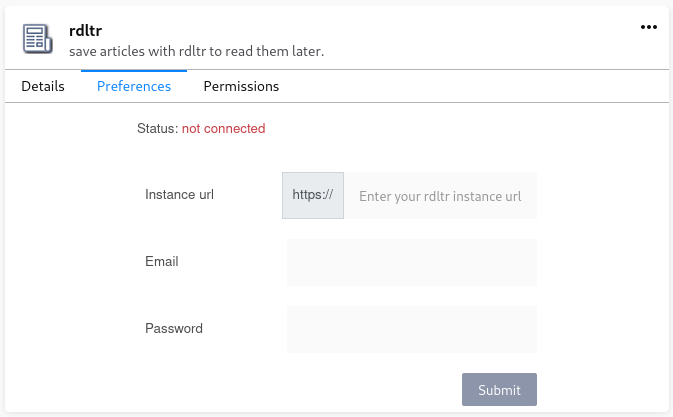
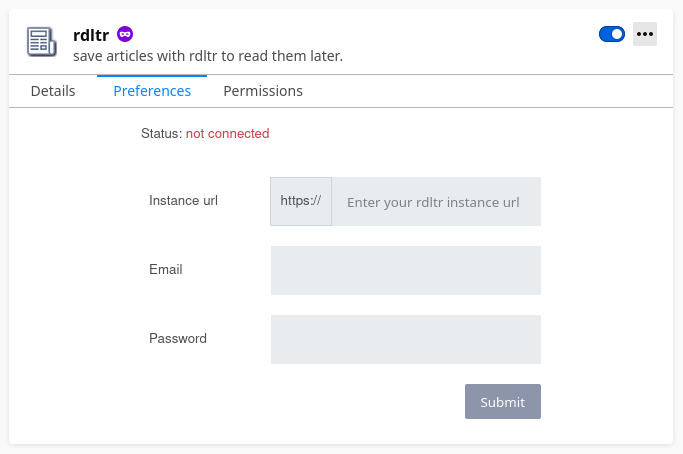
update option style

diff --git a/src/assets/rdltr.css b/src/assets/rdltr.css
@@ -17,12 +17,9 @@ body {
 
 .rdltr-form {
   list-style-type: none;
-  padding: 0;
-}
-
-.rdltr-form {
   margin: 0 auto;
   max-width: 800px;
+  padding: 0;
 }
 
 .rdltr-form li {
@@ -31,7 +28,7 @@ body {
   flex-wrap: wrap;
 }
 
-.rdltr-form > li:not(:last-child) {
+.rdltr-form > li {
   margin-bottom: 20px;
 }
 
@@ -43,15 +40,16 @@ body {
 .rdltr-form > li > label,
 .rdltr-form li p {
   flex: 1 0 120px;
-  max-width: 220px;
+  max-width: 260px;
 }
 
 .rdltr-form > li > label + * {
-  flex: 1 0 220px;
+  flex: 1 0 260px;
 }
 
 .rdltr-form li input {
   border: none;
+  background: #e9ecef;
   padding: 15px;
 }
 
@@ -87,7 +85,7 @@ body {
 }
 
 #url {
-  max-width: 193px;
+  max-width: 209px;
 }
 
 /* Popup */
